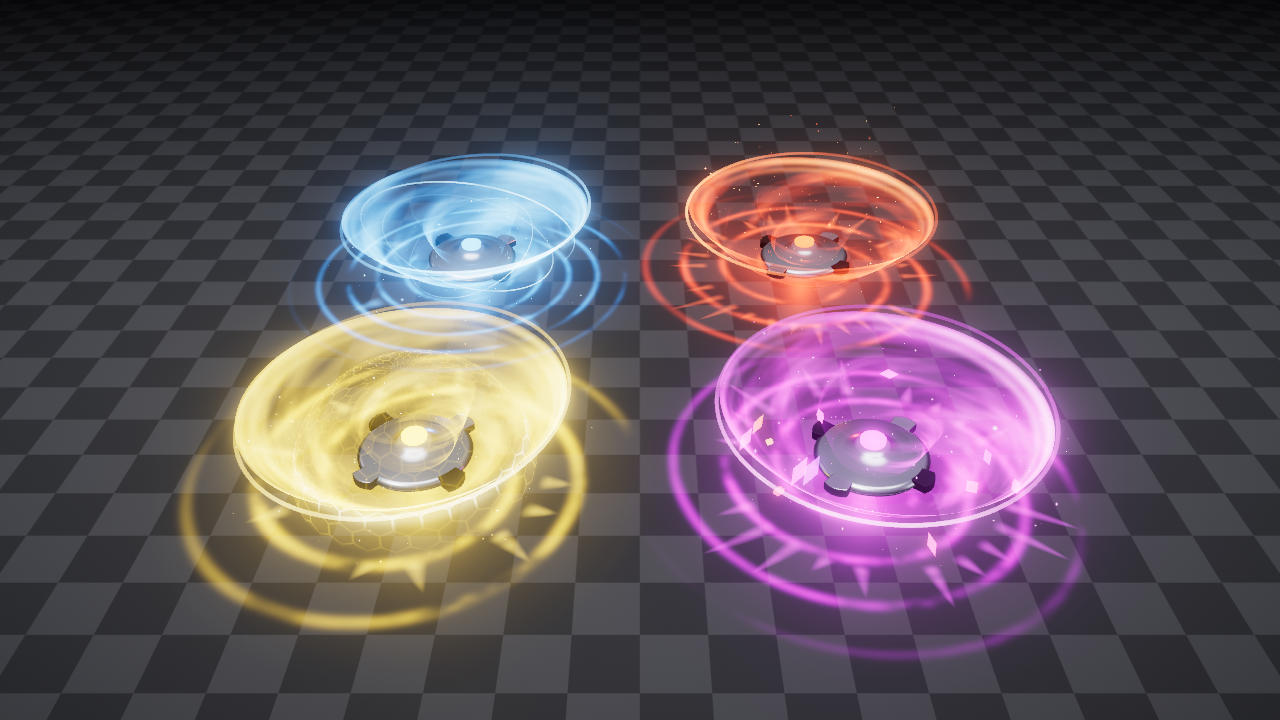
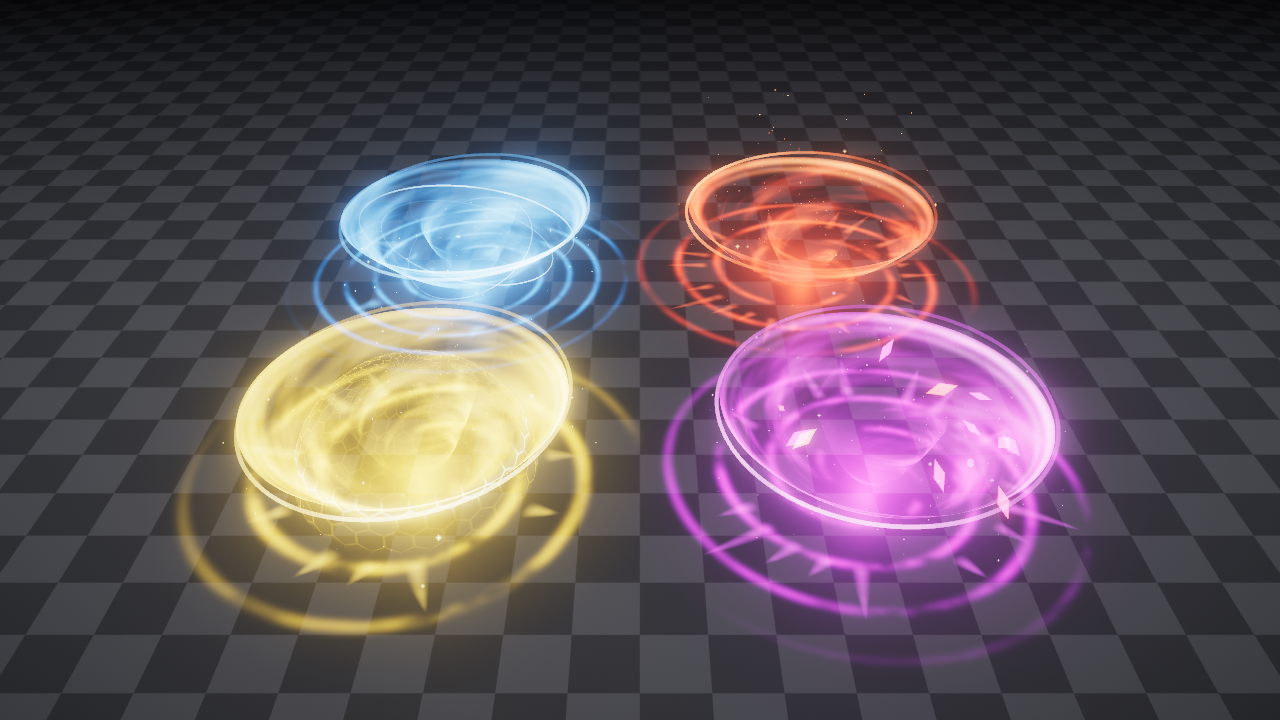
Aura scene: show auras only, hide placeholder tops
Claude-Session: https://claude.ai/code/session_01GyQvqdSqs2oPRhNNa8i6Ba

diff --git a/threejs/beyblade-aura-scene.js b/threejs/beyblade-aura-scene.js
@@ -8,8 +8,8 @@
 //   VEKTOR / Broken Prism   -> mor/prizma girdap + yorungede kirik kristaller
 //
 // Unity'ye ayni matematikle tasindi: unity/GyrionBeyAura/
-// Kontroller: topaca tikla = patlama (skill), surukle = kamera,
-//             "Shift colour" = secili topacin aura rengini degistir.
+// SADECE AURA (topac modeli yok). Kontroller: auraya tikla = patlama (skill),
+// surukle = kamera, "Shift colour" = secili auranin rengini degistir.
 // =============================================================================
 
 import * as THREE from 'three';
@@ -181,6 +181,8 @@ const RING_FS = /* glsl */ `
 
 export function createCrystalScene(canvas) {
   const CFG = { exposure: 1.0, bloomStrength: 0.95, bloomThreshold: 0.9, bloomKnee: 0.5 };
+  // Sadece auralar gosterilir. Ornek topac modelini gormek istersen true yap.
+  const SHOW_PLACEHOLDER_TOPS = false;
 
   const size = () => ({
     w: Math.max(1, Math.floor(canvas.clientWidth || window.innerWidth)),
@@ -512,7 +514,7 @@ export function createCrystalScene(canvas) {
     const top = makeTop(FAMILIES[fam].colA);
     top.group.position.set(x, 0, z);
     top.group.scale.setScalar(1.3);
-    scene.add(top.group);
+    if (SHOW_PLACEHOLDER_TOPS) scene.add(top.group);
     // tiklama icin gorunmez hacim
     const hit = new THREE.Mesh(track(new THREE.CylinderGeometry(0.9, 0.9, 1.2, 12)), new THREE.MeshBasicMaterial({ visible: false }));
     hit.position.set(x, 0.6, z);
